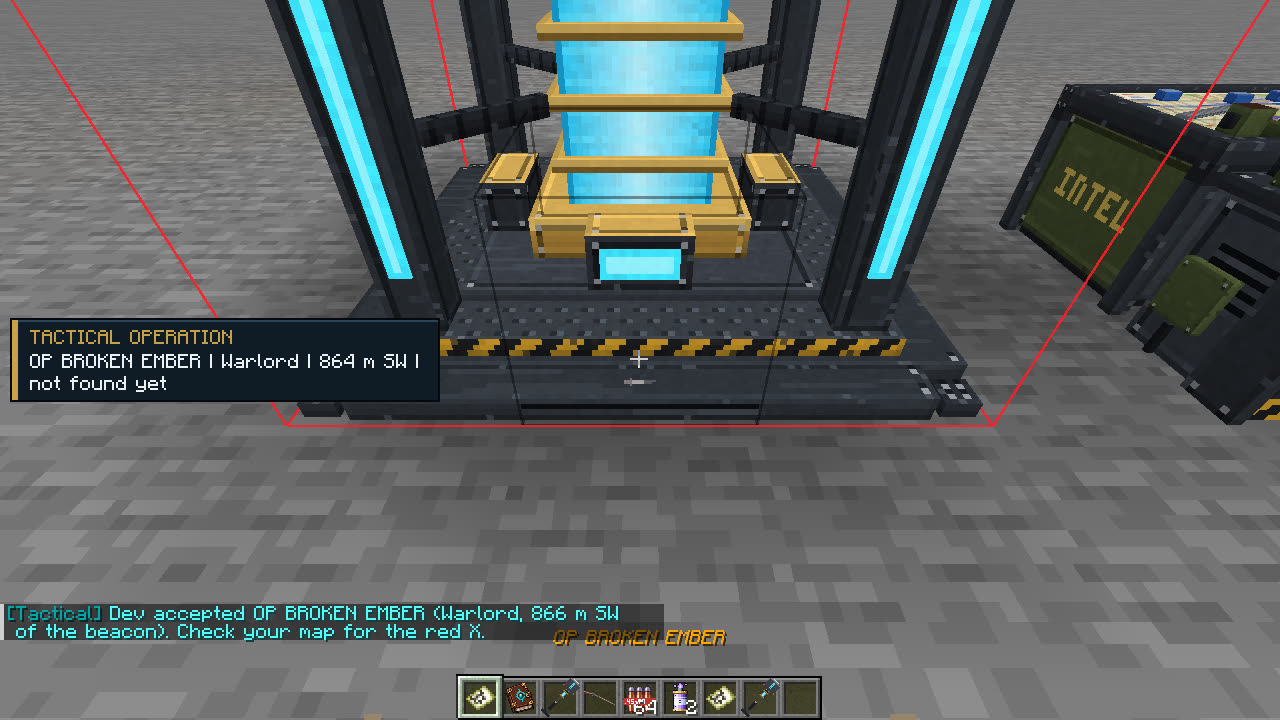
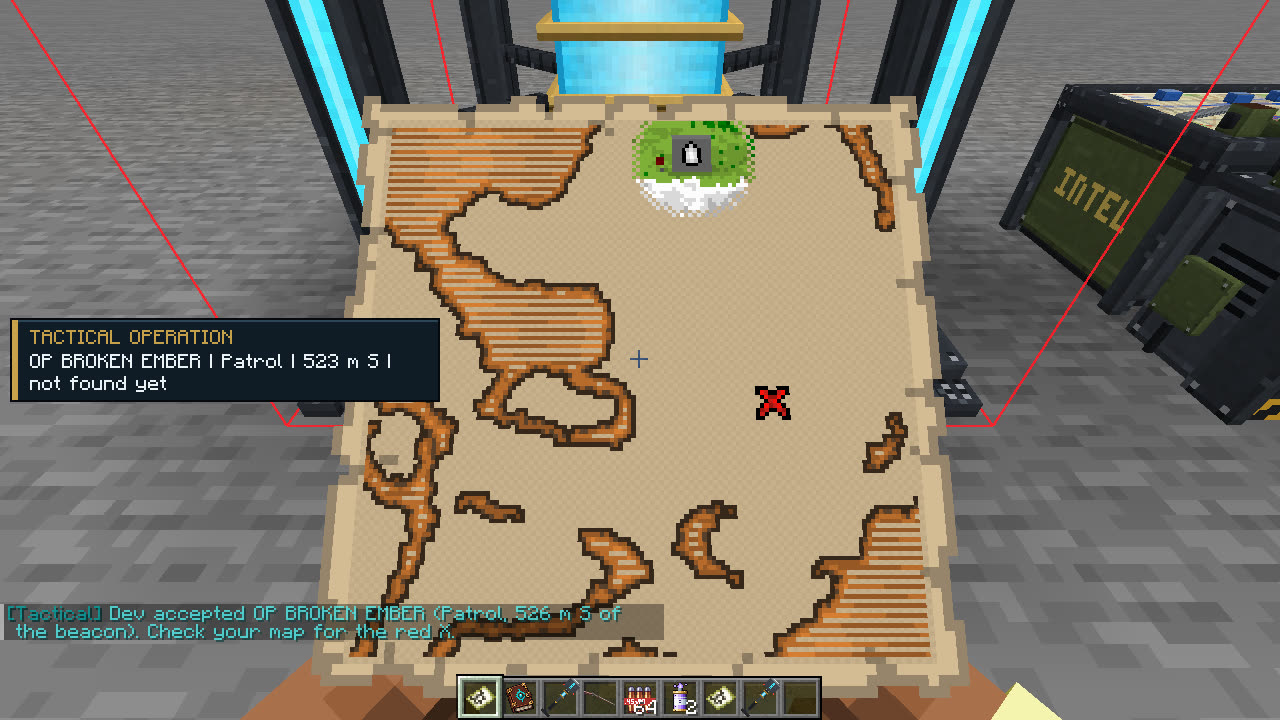
0.0.20: stuck-raider regression and the mission map check
The 0.0.14 stuck-raider GameTests pass on the 0.0.20 code (11/11); the
mission map screenshot with the red X and the beacon on one sheet.

Claude-Session: https://claude.ai/code/session_01DLsYU9jfkm2cyY537JxkgU

diff --git a/docs/TACTICAL-OPERATIONS-TESTING.md b/docs/TACTICAL-OPERATIONS-TESTING.md
@@ -43,6 +43,10 @@
 * The same walkthrough and the same results in the pack edition, with another board (one Patrol and three Warlords, closest 43.7 degrees apart): the scan sounds at the table, Accept and Abandon, the beacon card with the mission line (`pack-hud_status_card.jpg`), a Warlord out of 5 big gates (`pack-warband_gates.jpg`: two gates with the enemies stepping out in front), 12 in all, its captain with 152 health; the cannon card scrolls; the Starshell gives Haste II only; a raid reinforcement 43 blocks out came out of a gate with Speed II (`pack-raid_gate_spawn.jpg`); `/arsenal test-gate` (`pack-test_gate.jpg`); the same 5 of 10 Garrison areas, each confirmed, no chunk loaded, the slowest 28 ms.
 * In the recording the incoming sound starts at 169.22 s (r = 0.99) and the Starshell bursts 5.16 s later; the table, scan, contact and cleared sounds are where the client logged them.
 
+### Regression: the 0.0.14 stuck-raider GameTests (`stuck-raider-regression.txt`): 11 pass, 0 fail
+
+0.0.20 changed `RaiderGates` (spawn gates) and `RaidSpawns` (the clock for gate spawns), which the stuck-raider rescue also uses, so `tools/qa/QaStuck.java.txt` was run again (pack edition): all eleven pass, from the sealed cell and the lava probe to nine raiders sharing one gate and the boss that is never withdrawn.
+
 ### What the standalone run played (`audio-standalone.txt`)
 
 * Every sound the client logged is in the recording at the same second: the table's refuse and accept, the scan sweep when SCAN MAP was pressed and the done pings 12.8 s later, the contact alert when a warband came out, and the mission-cleared placeholder at the last kill.
